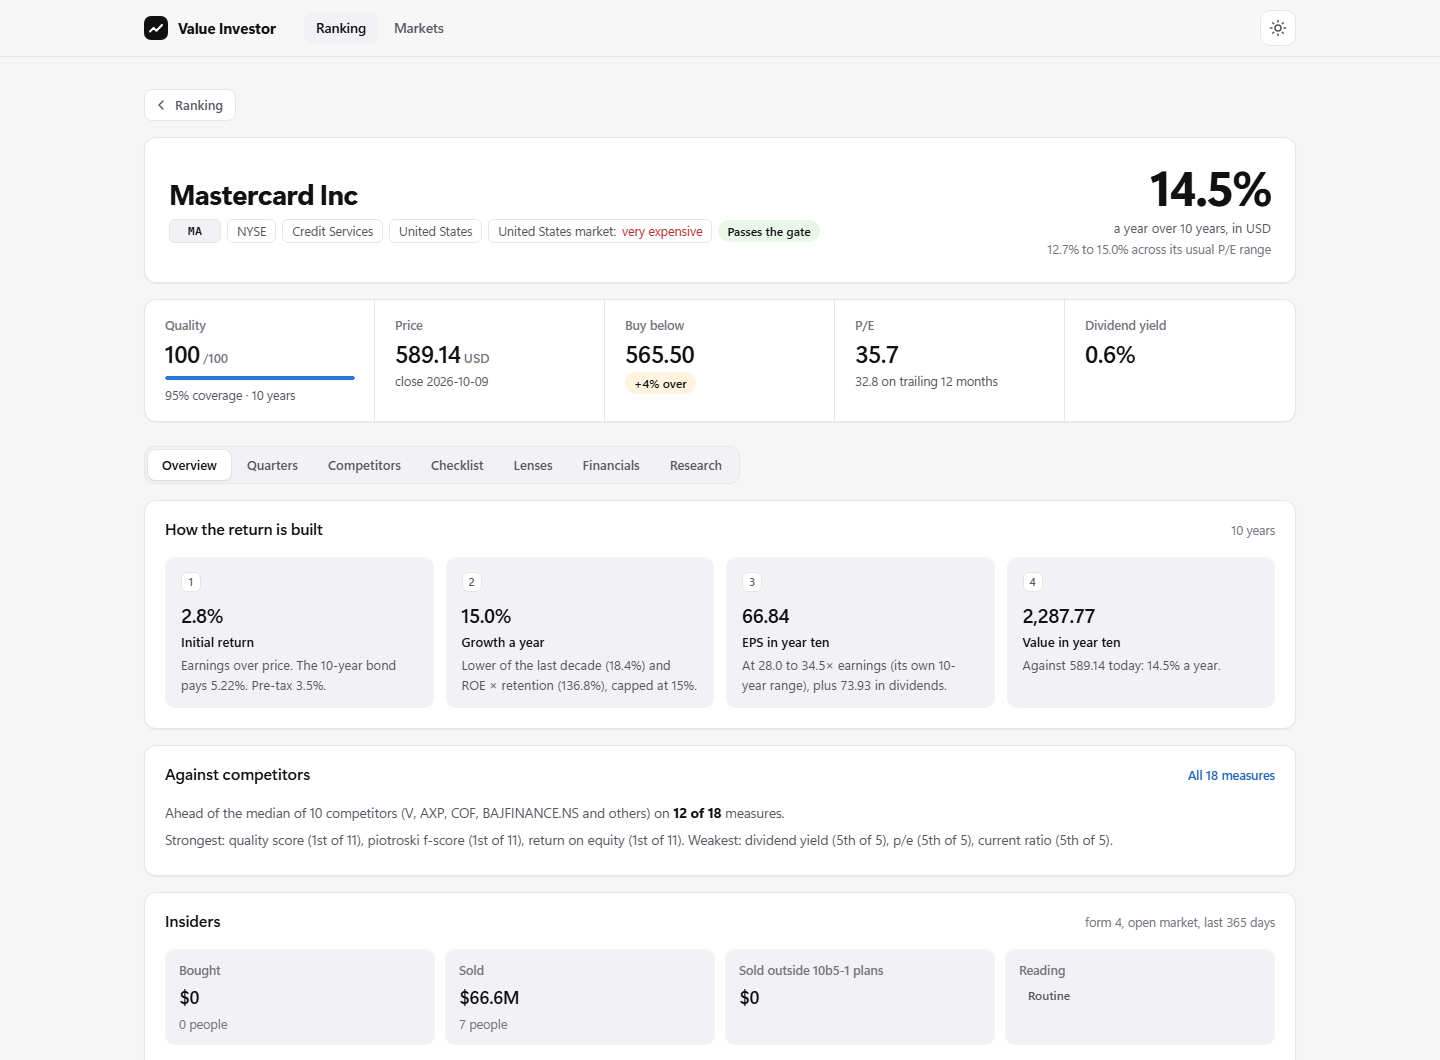
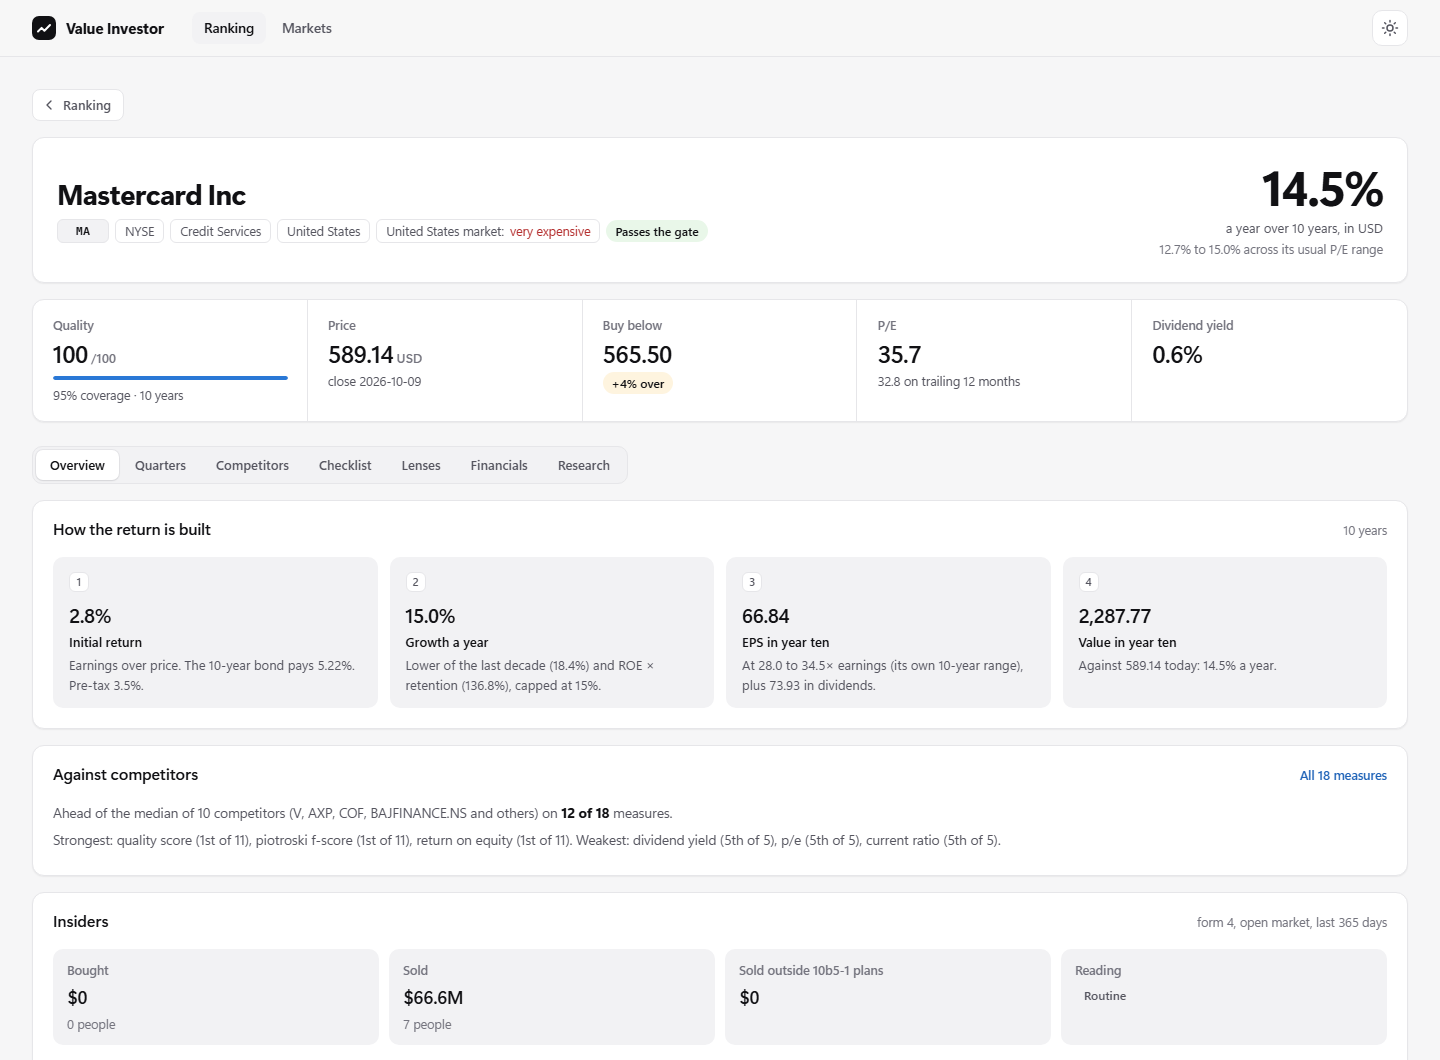
less side margin

diff --git a/static/style.css b/static/style.css
@@ -102,9 +102,9 @@ a { color: var(--accent-ink); text-decoration: none; }
 a:hover { text-decoration: underline; text-underline-offset: 3px; }
 
 .wrap {
-  max-width: 1200px;
+  max-width: 1440px;
   margin: 0 auto;
-  padding-inline: 24px;
+  padding-inline: clamp(16px, 2.5vw, 32px);
 }
 
 /* top bar */
